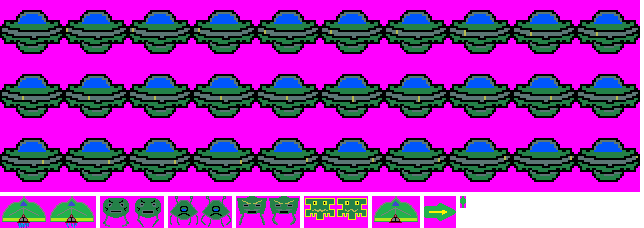
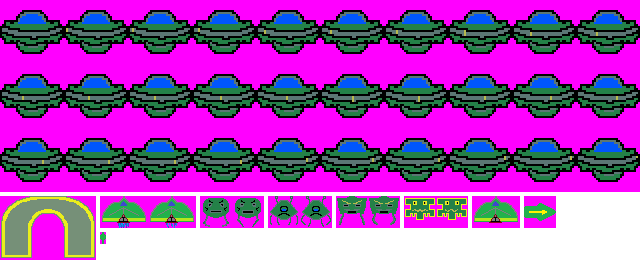
added bunker image

diff --git a/entities/bunker.py b/entities/bunker.py
@@ -4,44 +4,6 @@ from pygame.sprite import Sprite
 import config
 
 
-def generate_bunker_surface():
-    tile_size = config.bunker_tile_size
-
-    wh = (tile_size * 3, tile_size * 2)
-
-    surf = pygame.Surface(wh)
-
-    bkg = config.transparent_color
-    surf.fill(bkg)
-    surf.set_colorkey(bkg)
-
-    # fill bottom two-thirds of bunker
-    r = surf.get_rect()
-    r.height -= tile_size
-    r.bottom = surf.get_height()
-    surf.fill(config.bunker_color, r)
-
-    # fill top tile between the two "legs"
-    surf.fill(config.bunker_color, pygame.Rect(tile_size, 0, tile_size, tile_size))
-
-    # left circle to create rounded "left shoulder"
-    r.width, r.height = tile_size * 2, tile_size * 2
-    r.center = (tile_size, tile_size)
-    pygame.draw.circle(surf, config.bunker_color, r.center, tile_size)
-
-    # right circle
-    r.center = (surf.get_width() - tile_size, r.centery)
-    pygame.draw.circle(surf, config.bunker_color, r.center, tile_size)
-
-    # clip out the bottom square which is not part of the bunker
-    r.width, r.height = tile_size, tile_size
-    r.left, r.bottom = tile_size, surf.get_height()
-
-    surf.fill(bkg, r)
-
-    return surf.convert()
-
-
 class BunkerFragment(Sprite):
     def __init__(self, surf, center_position):
         super().__init__()
@@ -103,7 +65,8 @@ class Bunker:
     def __init__(self, center_position, player_bullets, enemy_bullets):
         super().__init__()
 
-        img = generate_bunker_surface()
+        #img = generate_bunker_surface()
+        img = config.atlas.load_static("bunker").image
 
         fragments = Bunker._create_bunker_fragments(img, center_position)
         self._fragments = pygame.sprite.Group(fragments)
@@ -154,15 +117,14 @@ class Bunker:
         for x in range(0, surf.get_rect().width, config.bunker_tile_size):
             for y in range(0, surf.get_rect().height, config.bunker_tile_size):
                 slice_surf = pygame.Surface(src_rect.size)
+                slice_surf.fill(config.transparent_color)
                 slice_surf.blit(surf, dest_rect, src_rect)
-
-                slice_surf.set_colorkey(config.transparent_color)
 
                 # avoid creating blank slices by making sure the tile has some content
                 threshold = pygame.transform.threshold(None, slice_surf, surf.get_colorkey(), set_behavior=0)
                 slice_surf.set_colorkey(config.transparent_color)
 
-                if threshold < dest_rect.width * dest_rect.height * 0.33:  # less than 33% transparent
+                if threshold < dest_rect.width * dest_rect.height * 0.5:  # less than 50% transparent
                     r = src_rect.copy()
                     r.left -= surf.get_width() // 2
                     r.top -= surf.get_height() // 2

diff --git a/alien_fleet.py b/alien_fleet.py
@@ -27,7 +27,6 @@ class AlienFleet:
         self.create_new_fleet()
 
         self.next_ufo_appearance = random.uniform(config.ufo_min_delay, config.ufo_max_delay)
-        print("next ufo: ", self.next_ufo_appearance)
 
         # temp
         self.bullet_elapsed = 999.0
@@ -191,33 +190,26 @@ class AlienFleet:
             # if ufo has moved off-screen, delete it without explosion or points
             if ufo.speed < 0.0 and ufo.rect.right - ufo.rect.width < 0:
                 self.ufos.remove(ufo)
-                print("ufo offscreen")
             elif ufo.speed > 0.0 and ufo.rect.left - ufo.rect.width > config.screen_width:
                 self.ufos.remove(ufo)
-                print("ufo offscreen")
 
     def _fire_alien_bullet(self, alien):
         self.bullet_elapsed = 0.0
 
-        # *** temp  ***
+        # create new animation for this bullet
+        bullet_anim = config.atlas.load_animation("alien_bullet")
 
-        # temp: create bullet from every alien
-        for alien in self.aliens:
-            # create new animation for this bullet
-            bullet_anim = config.atlas.load_animation("alien_bullet")
+        # calculate bullet center position
+        # it should align with the BOTTOM of the alien
+        r = pygame.Rect(0, 0, bullet_anim.width, bullet_anim.height)
+        r.bottom = alien.rect.bottom
+        r.centerx = alien.rect.centerx
 
-            # calculate bullet center position
-            # it should align with the BOTTOM of the alien
-            r = pygame.Rect(0, 0, bullet_anim.width, bullet_anim.height)
-            r.bottom = alien.rect.bottom
-            r.centerx = alien.rect.centerx
+        bullet = Bullet(self.session_stats.alien_bullet, r.center, bullet_anim)
 
-            bullet = Bullet(self.session_stats.alien_bullet, r.center, bullet_anim)
-
-            self.alien_bullets.add(bullet)
+        self.alien_bullets.add(bullet)
 
     def _spawn_ufo(self):
-        print("spawning ufo")
         self.next_ufo_appearance = random.uniform(config.ufo_min_delay, config.ufo_max_delay)
 
         ufo = Ufo(self.session_stats, config.atlas.load_animation("ufo"))

diff --git a/sprite_atlas.py b/sprite_atlas.py
@@ -11,8 +11,9 @@ import config
 def load_atlas():
     atlas = SpriteAtlas(os.path.join('images', 'atlas.png'))
 
-    atlas.initialize_static("ship", color_key=config.transparent_color, override_width=48)
+    atlas.initialize_static("ship", color_key=config.transparent_color, override_width=48)  # used for explosion
     atlas.initialize_static("player_bullet", color_key=config.transparent_color, generate_mask=True)
+    atlas.initialize_static("bunker", color_key=config.transparent_color, generate_mask=True)
     atlas.initialize_static("selector", color_key=config.transparent_color)
     atlas.initialize_static("ship_no_engines", color_key=config.transparent_color)
 

diff --git a/states/run_game.py b/states/run_game.py
@@ -44,8 +44,7 @@ class RunGame(GameState):
             self.ship.fire()
 
     def draw(self, screen, draw_ship=True):
-        #screen.fill(color=config.bg_color)
-        screen.fill(color=(255, 0, 0))
+        screen.fill(color=config.bg_color)
 
         if draw_ship:
             screen.blit(self.ship.image, self.ship.rect)
